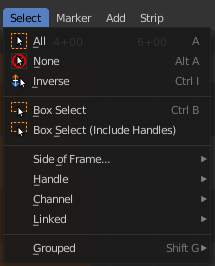
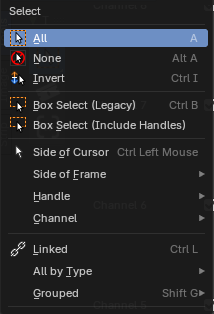
Video Sequencer: Select menu matches Bforartists 5.3 (#1285)

diff --git a/docs2/content/editors/video-sequence-editor/header/index.md b/docs2/content/editors/video-sequence-editor/header/index.md
@@ -653,9 +653,10 @@ Select everything.
 | Entry | What it does |
 | ---------------------------- | ------------------------------------------------------------------------------------------------------------------------------------------------------------------------------------------------------------- |
 | None | Select nothing. |
-| Inverse | Invert the current selection. |
-| Box Select | Draw a rectangle to box select strips. It adds to selection by default. To subtract from selection hold down Shift key. |
-| Box Select (Include Handles) | Draw a rectangle to box select the handles of the strips. A strip has a resize handle at the start and the end of the strip. It adds to selection by default. To subtract from selection hold down Shift key. |
+| Invert | Flip the selection: selected strips become unselected and the other way round. |
+| Box Select (Legacy) | Drag a rectangle to select strips. Hold Shift to remove strips from the selection. You rarely need it: dragging with the Tweak tool selects the same way. |
+| Box Select (Include Handles) | Like Box Select, but it also selects the handles at the start and end of each strip, so you can trim several strips at once. |
+| Side of Cursor | Selects every strip on the same side of the playhead as your mouse. |
 
 #### Side of Frame submenu
 
@@ -697,19 +698,17 @@ Which side to select.
 | Right | Select the strips right from the current frame that are in the same channel. |
 | Both sides | Select all strips in the channel of the currently selected strip. |
 
-#### Linked submenu
+#### Linked
 
-![Linked submenu](/docs2/images/editors/video-sequence-editor/header/select-menu/linked-submenu.png)
+Selects every strip that touches the strips you have selected.
 
-| Entry | What it does |
-| ----- | --------------------------------------------------------------------------------- |
-| All | Select all strips that are adjacent to the current selected strip. |
-| Less | Decrease the selection of strips that are adjacent to the current selected strip. |
-| More | Increase the selection of strips that are adjacent to the current selected strip. |
+#### All by Type submenu
 
-#### Selecxt Grouped submenu
+Selects every strip of one kind, for example all Sound strips or all Text strips. The kinds are Scene, Clip, Mask, Movie, Sound, Image, Color, Text, Adjustment Layer, Compositor, Effect and Visual.
 
-![Selecxt Grouped submenu](/docs2/images/editors/video-sequence-editor/header/select-menu/selecxt-grouped-submenu.png)
+#### Grouped submenu
+
+![Grouped submenu](/docs2/images/editors/video-sequence-editor/header/select-menu/selecxt-grouped-submenu.png)
 
 Select all strips that are equal to the current selected strip by the chosen method. The menu items should be self explaining.
 
@@ -724,8 +723,8 @@ Select everything.
 | Entry | What it does |
 | ---------- | ----------------------------------------------------------------------------------------------------------------------- |
 | None | Select nothing. |
-| Inverse | Invert the current selection. |
-| Box Select | Draw a rectangle to box select strips. It adds to selection by default. To subtract from selection hold down Shift key. |
+| Invert | Flip the selection. |
+| Box Select (Legacy) | Drag a rectangle to select strips. Hold Shift to remove strips from the selection. |
 
 #### Grouped
 
